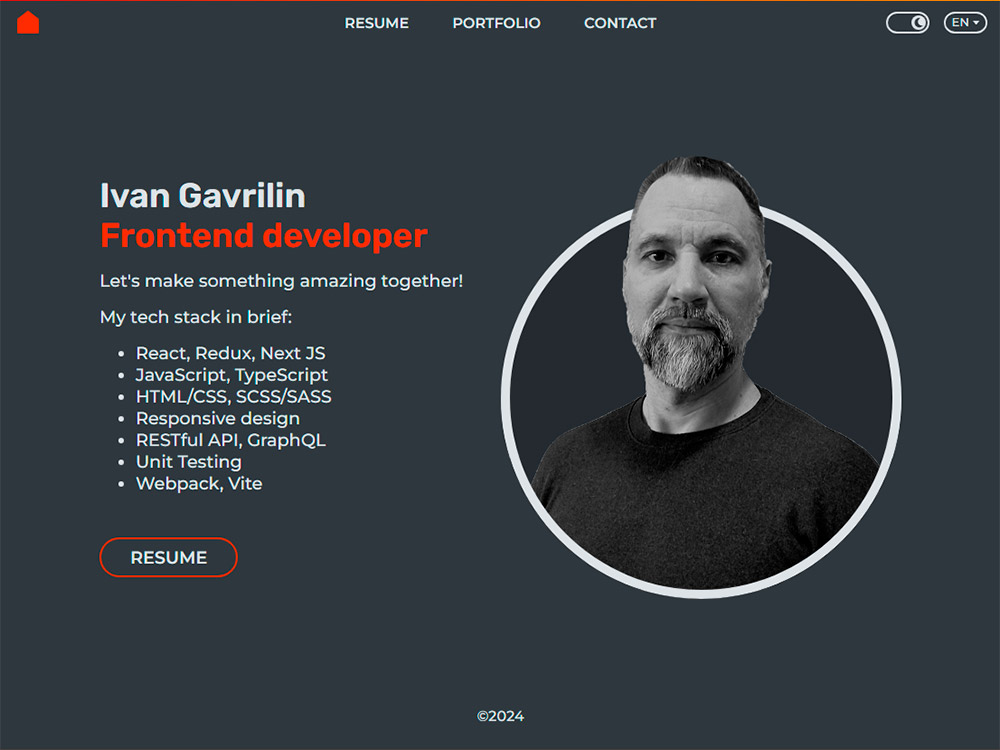
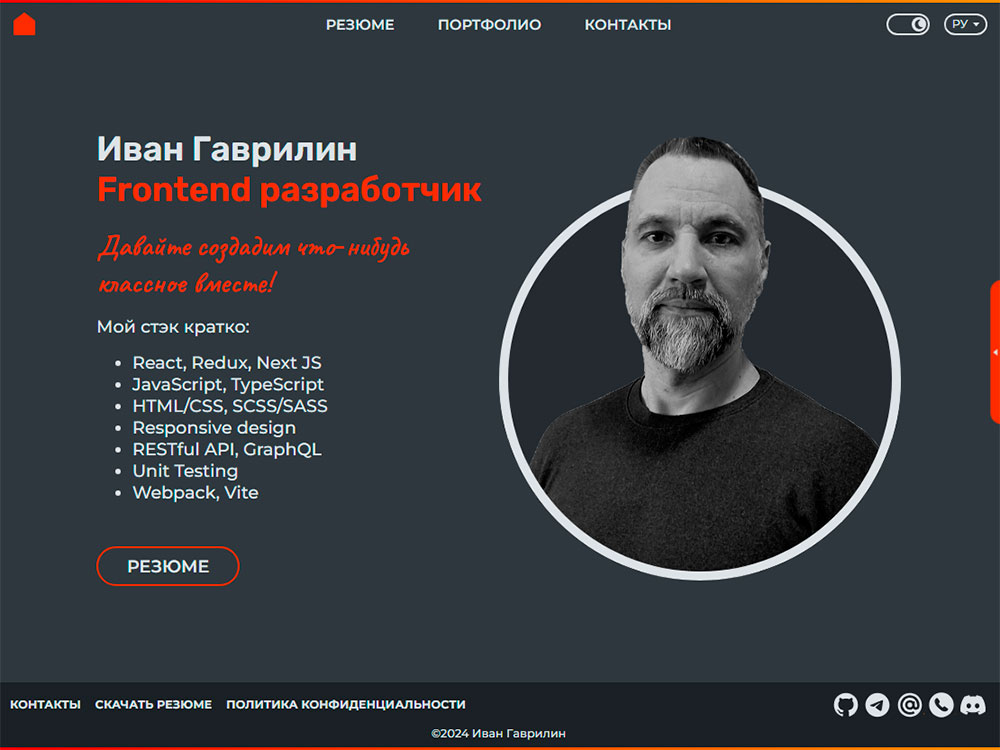
refactor: optimize styles and loading

diff --git a/src/pages/Router.tsx b/src/pages/Router.tsx
@@ -1,10 +1,13 @@
+import { lazy } from 'react';
 import { createBrowserRouter, RouterProvider } from 'react-router-dom';
 import RootLayout from 'src/layout/RootLayout';
-import Page404 from './404/404';
-import CV from './CV/CV';
-import Hero from './Hero/Hero';
-import Projects from './Projects/Projects';
-import ContactPage from './Contact/ContactPage';
+
+const Page404 = lazy(() => import('./404/404'));
+const CV = lazy(() => import('./CV/CV'));
+const Hero = lazy(() => import('./Hero/Hero'));
+const Projects = lazy(() => import('./Projects/Projects'));
+const ContactPage = lazy(() => import('./Contact/ContactPage'));
+const Privacy = lazy(() => import('./Privacy/Privacy'));
 
 const router = createBrowserRouter([
   {
@@ -27,6 +30,10 @@ const router = createBrowserRouter([
       {
         path: 'contact',
         element: <ContactPage />,
+      },
+      {
+        path: 'privacy',
+        element: <Privacy />,
       },
     ],
   },

diff --git a/index.html b/index.html
@@ -7,7 +7,7 @@
   <link rel="preconnect" href="https://fonts.googleapis.com">
   <link rel="preconnect" href="https://fonts.googleapis.com">
   <link rel="preconnect" href="https://fonts.gstatic.com" crossorigin>
-  <link href="https://fonts.googleapis.com/css2?family=Montserrat:wght@500;600;700&family=Rubik:ital,wght@0,500;0,600;1,400&display=swap" rel="stylesheet">
+  <link href="https://fonts.googleapis.com/css2?family=Caveat:wght@600&family=Montserrat:wght@500;600;700&family=Rubik:ital,wght@0,500;0,600;1,400&display=swap" rel="stylesheet">
   <meta name="viewport" content="width=device-width, initial-scale=1.0" />
   <title>Ivan Gavrilin personal site</title>
 </head>

diff --git a/src/App.tsx b/src/App.tsx
@@ -5,6 +5,7 @@ import 'src/i18n/i18n';
 import './App.css';
 import { ThemeProvider } from './context/ThemeContext';
 import Router from './pages/Router';
+import Fallback from './components/Fallback/Fallback';
 
 function App() {
   const defaultTheme = window.matchMedia('(prefers-color-scheme: dark').matches;
@@ -14,7 +15,7 @@ function App() {
 
   return (
     <ErrorBoundary fallback={<h1>Something went wrong</h1>}>
-      <Suspense fallback={<h1>Loading..</h1>}>
+      <Suspense fallback={<Fallback />}>
         <ThemeProvider value={{ dark, setDark }}>
           <div id={dark ? 'dark' : 'light'} className="app_container">
             <Router />

diff --git a/src/components/Photo/Photo.tsx b/src/components/Photo/Photo.tsx
@@ -1,10 +1,19 @@
-import photo from 'src/assets/pics/avatar.png';
+import { useState } from 'react';
+import cn from 'classnames';
 import s from './Photo.module.css';
+import photo from 'src/assets/pics/avatar.png';
 
 export default function Photo() {
+  const [loaded, setLoaded] = useState(false);
+
   return (
     <div className={s.photo_frame}>
-      <img className={s.photo} src={photo} alt="hi!" />
+      <img
+        className={cn(s.photo, loaded && s.loaded)}
+        src={photo}
+        alt="hi!"
+        onLoad={() => setLoaded(true)}
+      />
     </div>
   );
 }

diff --git a/src/layout/RootLayout.tsx b/src/layout/RootLayout.tsx
@@ -5,13 +5,14 @@ import s from './RootLayout.module.css';
 import Header from './Header';
 import Footer from './Footer';
 import SideTab from 'src/components/SideTab/SideTab';
+import Fallback from 'src/components/Fallback/Fallback';
 
 export default function RootLayout() {
   return (
     <>
       <Header />
       <main className={s.main}>
-        <Suspense fallback={<h2>Loading...</h2>}>
+        <Suspense fallback={<Fallback />}>
           <ScrollRestoration />
           <Outlet />
           <SideTab />

diff --git a/src/layout/Footer.tsx b/src/layout/Footer.tsx
@@ -68,7 +68,7 @@ export default function Footer() {
             to={`/pdf/Ivan-Gavrilin-FrontEnd-Dev-${i18n.language.toUpperCase()}.pdf`}
             target="_blank"
           />
-          <FooterLink text={t('PRIVACY_POLICY')} to="/" />
+          <FooterLink text={t('PRIVACY_POLICY')} to="/privacy" />
         </div>
         <div className={s.social_links}>
           {socialLinks.map((link) => (

diff --git a/src/components/UI/Slide/Slide.tsx b/src/components/UI/Slide/Slide.tsx
@@ -36,7 +36,7 @@ export default function Slide(props: SlideProps) {
       <div className={s.slide_img_container}>
         <div className={s.slide_img_frame}>
           <div className={s.slide_img}>
-            <img src={img} alt={name} />
+            <img loading="lazy" src={img} alt={name} />
           </div>
         </div>
       </div>

diff --git a/src/components/Fallback/Fallback.tsx b/src/components/Fallback/Fallback.tsx
@@ -1,0 +1,17 @@
+import Loading from '../UI/Loading/Loading';
+
+export default function Fallback() {
+  return (
+    <div
+      style={{
+        display: 'flex',
+        justifyContent: 'center',
+        alignItems: 'center',
+        width: '100%',
+        height: '100svh',
+      }}
+    >
+      <Loading />
+    </div>
+  );
+}

diff --git a/src/index.css b/src/index.css
@@ -32,6 +32,7 @@
 
   --font-base: 'Montserrat', Helvetica, Arial, Inter, system-ui, sans-serif;
   --font-header: 'Rubik', 'Montserrat', Helvetica, Arial, Inter, system-ui, sans-serif;
+  --font-handwriting: 'Caveat', 'Montserrat', Helvetica, Arial, Inter, system-ui, sans-serif;
   
   min-height: 100dvh;
 }

diff --git a/src/pages/Hero/Hero.module.css b/src/pages/Hero/Hero.module.css
@@ -39,9 +39,11 @@
   margin-block: 0 2rem;
 }
 
-/* .hero.mobile .hero_text {
-  left: 0;
-} */
+.hero_slogan {
+  font-family: var(--font-handwriting);
+  font-size: clamp(2rem, 2.3cqw , 6rem);
+  color: var(--color-active);
+}
 
 .hero_title {
   grid-area: header;

diff --git a/src/components/Photo/Photo.module.css b/src/components/Photo/Photo.module.css
@@ -33,8 +33,18 @@
   border-top: none;
 }
 
+.skeleton {
+  position: absolute;
+}
+
 .photo {
   position: relative;
   display: block;
   object-fit: contain;
+  opacity: 0;
+  transition: opacity .2s ease-in;
+}
+
+.photo.loaded {
+  opacity: 1;
 }

diff --git a/src/components/SideTab/SideTab.tsx b/src/components/SideTab/SideTab.tsx
@@ -17,7 +17,7 @@ export default function SideTab() {
     const firstTime = setTimeout(() => {
       setAnimated(false);
       clearTimeout(firstTime);
-    }, 3000);
+    }, 5000);
   }, []);
 
   if (device === 'mobile') {
